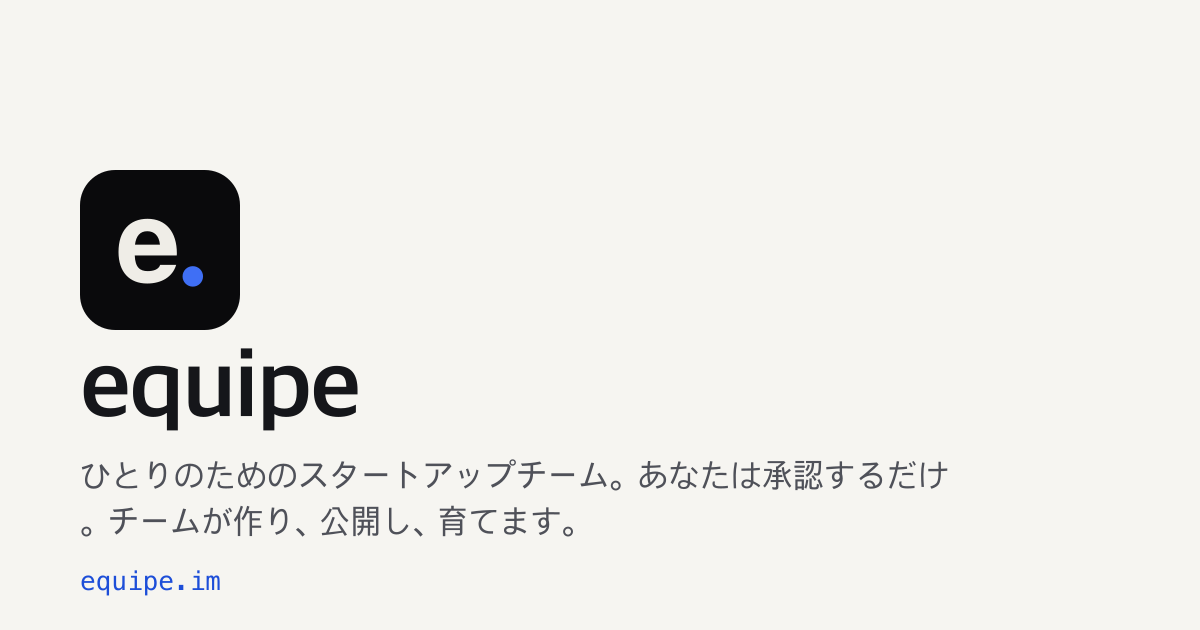
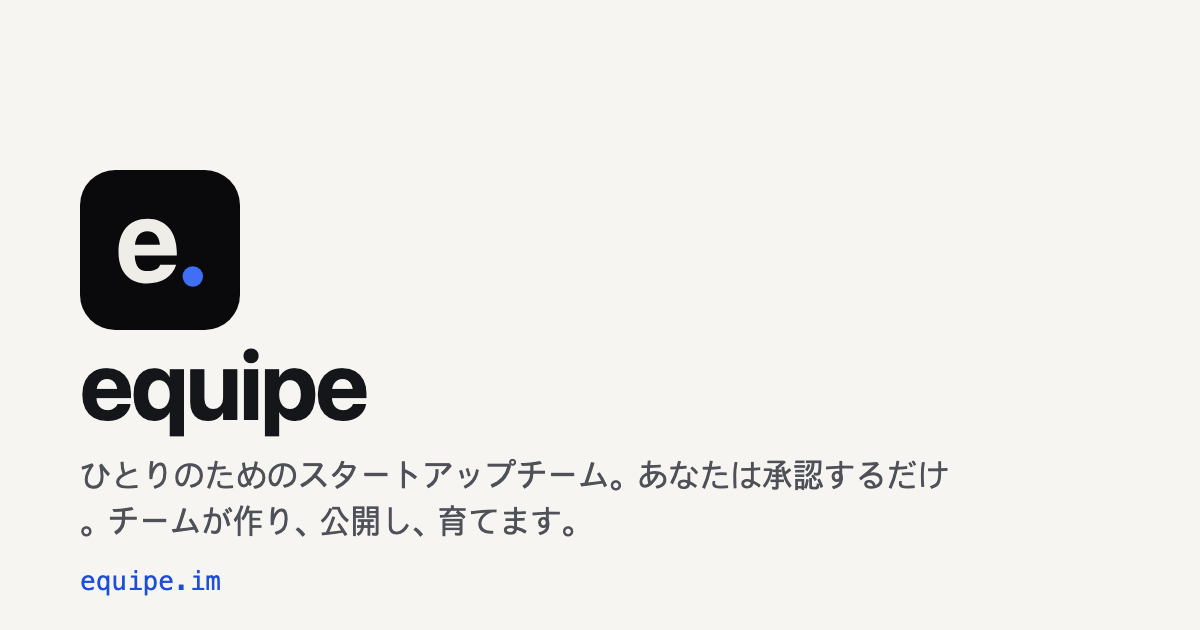
Set type in Apple's San Francisco, with Inter and Pretendard as fallbacks
The sans stack now starts with the system font on Apple devices
(-apple-system, BlinkMacSystemFont, SF Pro Text, SF Pro Display), then Inter
for Latin elsewhere, then the CJK stack (Apple SD Gothic Neo before
Pretendard for Korean). Mono is SF Mono / ui-monospace. SF cannot be
self-hosted, so nothing is downloaded on Apple devices: the JetBrains Mono
and full Inter webfont packages are gone, Inter is one self-hosted latin
file fetched only where SF is missing, and the font preloads are removed.
Body tracking is a touch tighter, display sizes less so than Inter needed.

Social images are drawn by headless Chrome so their text uses SF too, and
Korean taglines break between words.

diff --git a/src/styles/global.css b/src/styles/global.css
@@ -1,4 +1,6 @@
 /* Colours, radii and fonts are the brand v1 tokens (equipe/design/tokens.json: bg, surface, sunken, text, muted, line, dot, radius.card/chip). */
+/* Inter, latin only: the fallback where San Francisco is not installed (Windows, Android, Linux). Never fetched on Apple devices. */
+@font-face { font-family: 'Inter Variable'; font-style: normal; font-display: swap; font-weight: 100 900; src: url('../assets/fonts/inter-latin-wght.woff2') format('woff2-variations'); unicode-range: U+0000-00FF, U+0131, U+0152-0153, U+02BB-02BC, U+02C6, U+02DA, U+02DC, U+0304, U+0308, U+0329, U+2000-206F, U+20AC, U+2122, U+2191, U+2193, U+2212, U+2215, U+FEFF, U+FFFD; }
 @font-face { font-family: 'Pretendard Variable'; font-weight: 400 700; font-style: normal; font-display: swap; src: url('../assets/fonts/pretendard-ko-rest.woff2') format('woff2'); unicode-range: U+AC00-D7A3; }
 /* declared last, so the Hangul the site actually uses (52 KB) wins over the rare-syllable fallback above (251 KB, fetched only if one appears) */
 @font-face { font-family: 'Pretendard Variable'; font-weight: 400 700; font-style: normal; font-display: swap; src: url('../assets/fonts/pretendard-ko-core.woff2') format('woff2'); unicode-range: U+B7, U+D7, U+2013-2014, U+2018-2019, U+201C-201D, U+2022, U+2026, U+2190, U+2192, U+3131-314E, U+AC00-AC01, U+AC04, U+AC08, U+AC11, U+AC16, U+AC19, U+AC1C, U+AC70, U+AC74, U+AC78, U+AC80, U+AC83, U+AC8C, U+ACA8-ACA9, U+ACB0, U+ACBD, U+ACC4, U+ACE0, U+ACF5, U+ACFC, U+AD00, U+AD11, U+AD6C-AD6D, U+ADF8, U+AE08-AE09, U+AE30, U+AE4C, U+AE68, U+AEBC, U+AED8, U+AFE8, U+B00C, U+B044, U+B04C, U+B05D, U+B098, U+B0A0, U+B0A8-B0A9, U+B0B4, U+B0C5, U+B108, U+B110, U+B124, U+B193, U+B204, U+B208, U+B220, U+B274, U+B290, U+B294, U+B2A5, U+B2C8, U+B2E4, U+B2E8, U+B2EB-B2EC, U+B2F5, U+B2F9, U+B300, U+B354-B355, U+B358, U+B370, U+B378, U+B3C4-B3C5, U+B3CC, U+B3D9, U+B3FC, U+B410, U+B418, U+B41C, U+B428-B429, U+B450, U+B454, U+B458, U+B4A4, U+B4DC, U+B4E0, U+B4E4, U+B4ED, U+B514, U+B529, U+B530, U+B54C, U+B5A4, U+B5BB, U+B610, U+B6F0, U+B744, U+B77C-B77D, U+B780, U+B78C, U+B798, U+B79C, U+B7EC, U+B7F0, U+B7FC, U+B7FF, U+B808, U+B824-B825, U+B82C, U+B838-B839, U+B840, U+B85C-B85D, U+B860, U+B86C, U+B8CC, U+B8E8, U+B904, U+B974, U+B978, U+B97C, U+B984, U+B9AC-B9AD, U+B9B0, U+B9B4, U+B9BC-B9BD, U+B9C1, U+B9C8, U+B9CC, U+B9CE, U+B9D0, U+B9DB, U+B9DE, U+B9E1, U+B9E4-B9E5, U+B9E8, U+B9F5, U+BA38, U+BA3C, U+BA48, U+BA54, U+BA64, U+BA70, U+BA74, U+BA85, U+BAA8-BAA9, U+BAAB-BAAC, U+BABB, U+BB34, U+BB38, U+BB3B-BB3C, U+BB50, U+BBC0, U+BBF8, U+BC0B, U+BC14-BC16, U+BC18, U+BC1B-BC1D, U+BC29, U+BC30-BC31, U+BC84, U+BC88, U+BC95, U+BCC0, U+BCC4, U+BCD1, U+BCF4-BCF5, U+BCF8, U+BCFC, U+BD09, U+BD10, U+BD80, U+BD84, U+BD88, U+BD99, U+BE0C, U+BE44, U+BE4C, U+C0AC-C0AD, U+C0C1, U+C0C8, U+C0CC, U+C0DD, U+C11C-C11D, U+C120, U+C124, U+C138, U+C158, U+C18C-C18D, U+C194, U+C218, U+C26C, U+C288, U+C2A4, U+C2B5, U+C2B9, U+C2DC-C2DD, U+C2E0, U+C2E4, U+C2EC, U+C2F6, U+C30D, U+C465, U+C4F0, U+C4F8, U+C501, U+C529, U+C544, U+C548, U+C54A, U+C54C, U+C554, U+C571, U+C57C, U+C5B4, U+C5B8-C5B9, U+C5BC, U+C5C5-C5C8, U+C5D0, U+C5D4, U+C5EC-C5ED, U+C5F0, U+C5F4, U+C600-C601, U+C606, U+C608, U+C624, U+C62E, U+C640, U+C65C, U+C694, U+C6A9, U+C6B0, U+C6B4, U+C6C0, U+C6C3, U+C6CC, U+C6D0, U+C6E8, U+C6F9, U+C704, U+C720, U+C728, U+C73C, U+C740, U+C744, U+C74C, U+C758, U+C774, U+C778, U+C77C-C77D, U+C783, U+C785, U+C788, U+C790-C791, U+C798, U+C7A5, U+C800-C801, U+C804, U+C808, U+C810-C811, U+C815, U+C81C-C81D, U+C838, U+C84C, U+C870, U+C874, U+C885, U+C8FC, U+C900, U+C904, U+C90D, U+C911, U+C918, U+C989, U+C99D, U+C9C0-C9C1, U+C9C4, U+C9C8, U+C9D1, U+C9DC, U+CC28-CC29, U+CC38, U+CC3D-CC3E, U+CC44-CC45, U+CC98, U+CCAB, U+CCAD, U+CCB4, U+CCD0, U+CD08, U+CD5C, U+CD94, U+CD98, U+CDA5, U+CDA9, U+CE35, U+CE58, U+CE68-CE69, U+CE74, U+CE94, U+CEE4, U+CEEC, U+CEF4, U+CF13, U+CF1C, U+CF54, U+CF58, U+CFE0, U+CFFC, U+D06C, U+D070, U+D074, U+D0A4, U+D0C0, U+D0DC, U+D130, U+D14D, U+D1A0, U+D1B1, U+D1B5, U+D2B8, U+D2F0, U+D300, U+D30C, U+D310, U+D328, U+D398, U+D3BC, U+D3EC, U+D3F0, U+D3F4, U+D478, U+D4E8, U+D504, U+D508, U+D544, U+D558, U+D55C, U+D560, U+D568-D569, U+D56D, U+D574, U+D588-D589, U+D5A5, U+D5C8, U+D600, U+D638, U+D648, U+D654-D655, U+D6A8, U+D788; }
@@ -11,11 +13,14 @@
   --bw-1: 1px; --bw-2: 2px;
   --tap: 44px; --wrap: 1040px; --measure: 680px;
   --gutter: var(--s-4); --section-y: var(--s-8);
-  /* --sym: ⌘ ⇧ ↵ and friends, which Inter and JetBrains Mono don't carry. --cjk: a CJK family for any page (each :lang() below narrows it to its own). */
+  /* --sym: ⌘ ⇧ ↵ and friends, for fonts that don't carry them. --cjk: a CJK family for any page (each :lang() below narrows it to its own). */
+  /* Type: Apple's San Francisco first (the system font on Apple devices; SF cannot be self-hosted), then Inter for Latin elsewhere
+     (self-hosted, latin subset, fetched only where SF is missing), then the CJK stack, then the platform UI fonts. */
+  --apple: -apple-system, BlinkMacSystemFont, 'SF Pro Text', 'SF Pro Display';
   --sym: 'Apple Symbols', 'Segoe UI Symbol', 'Noto Sans Symbols 2', 'Noto Sans Symbols', 'DejaVu Sans';
   --cjk: 'Pretendard Variable', 'Apple SD Gothic Neo', 'Hiragino Sans', 'PingFang SC', 'Noto Sans CJK KR', 'Noto Sans KR', 'Noto Sans CJK JP', 'Noto Sans JP', 'Noto Sans CJK SC', 'Noto Sans SC', 'Malgun Gothic', Meiryo, 'Microsoft YaHei', 'Droid Sans Fallback';
-  --sans: 'Inter Variable', Inter, var(--cjk), system-ui, var(--sym), sans-serif;
-  --mono: 'JetBrains Mono Variable', 'JetBrains Mono', var(--cjk), ui-monospace, var(--sym), monospace;
+  --sans: var(--apple), 'Inter Variable', Inter, var(--cjk), 'Segoe UI', Roboto, system-ui, var(--sym), sans-serif;
+  --mono: 'SF Mono', ui-monospace, SFMono-Regular, Menlo, Consolas, 'Liberation Mono', var(--cjk), var(--sym), monospace;
   color-scheme: light;
 }
 @media (prefers-color-scheme: dark) {
@@ -31,7 +36,8 @@
 *, *::before, *::after { box-sizing: border-box; }
 html { scroll-behavior: smooth; scroll-padding-top: 72px; }
 body {
-  margin: 0; background: var(--bg); color: var(--text); font: 400 17px/1.6 var(--sans);
+  margin: 0; background: var(--bg); color: var(--text); font: 400 17px/1.6 var(--sans); letter-spacing: -0.011em;
+  -webkit-font-smoothing: antialiased; -moz-osx-font-smoothing: grayscale;
   transition: background-color 150ms, color 150ms;
 }
 @media (min-width: 641px) { body { font-size: 18px; } :root { --gutter: var(--s-5); --section-y: var(--s-9); } }
@@ -141,15 +147,16 @@ body.has-lang-banner { padding-bottom: var(--s-8); }
 .lang-banner a { display: inline-flex; align-items: center; min-height: var(--tap); font-weight: 600; }
 .lang-banner button { min-width: var(--tap); min-height: var(--tap); background: none; border: 0; color: var(--muted); font-size: 24px; line-height: 1; cursor: pointer; }
 
-/* CJK: ko ships Pretendard (self-hosted subset, above); ja and zh use system fonts. Loosen the Latin-tuned tracking.
+/* CJK: on Apple devices the system font draws Hangul, kana and hanzi (Apple SD Gothic Neo, Hiragino, PingFang). Elsewhere ko gets Pretendard
+   (self-hosted subset, above, fetched only when needed); ja and zh use system fonts. Loosen the Latin-tuned tracking.
    The CJK fallback goes into --sans and --mono themselves, so rules that set `font: … var(--sans)` (e.g. `.ap .btn`) or var(--mono) (e.g. `.ap .dec .tag`) keep it too —
    otherwise they drop Pretendard and draw empty boxes where the OS has no CJK font (T-6). */
-:lang(ko) { --cjk: 'Pretendard Variable', 'Apple SD Gothic Neo', 'Noto Sans KR', 'Noto Sans CJK KR', 'Malgun Gothic'; }
+:lang(ko) { --cjk: 'Apple SD Gothic Neo', 'Pretendard Variable', 'Noto Sans KR', 'Noto Sans CJK KR', 'Malgun Gothic'; }
 :lang(ja) { --cjk: 'Hiragino Sans', 'Hiragino Kaku Gothic ProN', 'Noto Sans JP', 'Noto Sans CJK JP', Meiryo; }
 :lang(zh-CN) { --cjk: 'PingFang SC', 'Noto Sans SC', 'Noto Sans CJK SC', 'Microsoft YaHei'; }
 :is(:lang(ko), :lang(ja), :lang(zh-CN)) {
-  --sans: 'Inter Variable', Inter, var(--cjk), system-ui, var(--sym), sans-serif;
-  --mono: 'JetBrains Mono Variable', 'JetBrains Mono', var(--cjk), ui-monospace, var(--sym), monospace;
+  --sans: var(--apple), 'Inter Variable', Inter, var(--cjk), 'Segoe UI', Roboto, system-ui, var(--sym), sans-serif;
+  --mono: 'SF Mono', ui-monospace, SFMono-Regular, Menlo, Consolas, 'Liberation Mono', var(--cjk), var(--sym), monospace;
   font-family: var(--sans);
 }
 :lang(ko) :is(h1, h2, h3), :lang(ja) :is(h1, h2, h3), :lang(zh-CN) :is(h1, h2, h3) { letter-spacing: 0; line-height: 1.3; }
